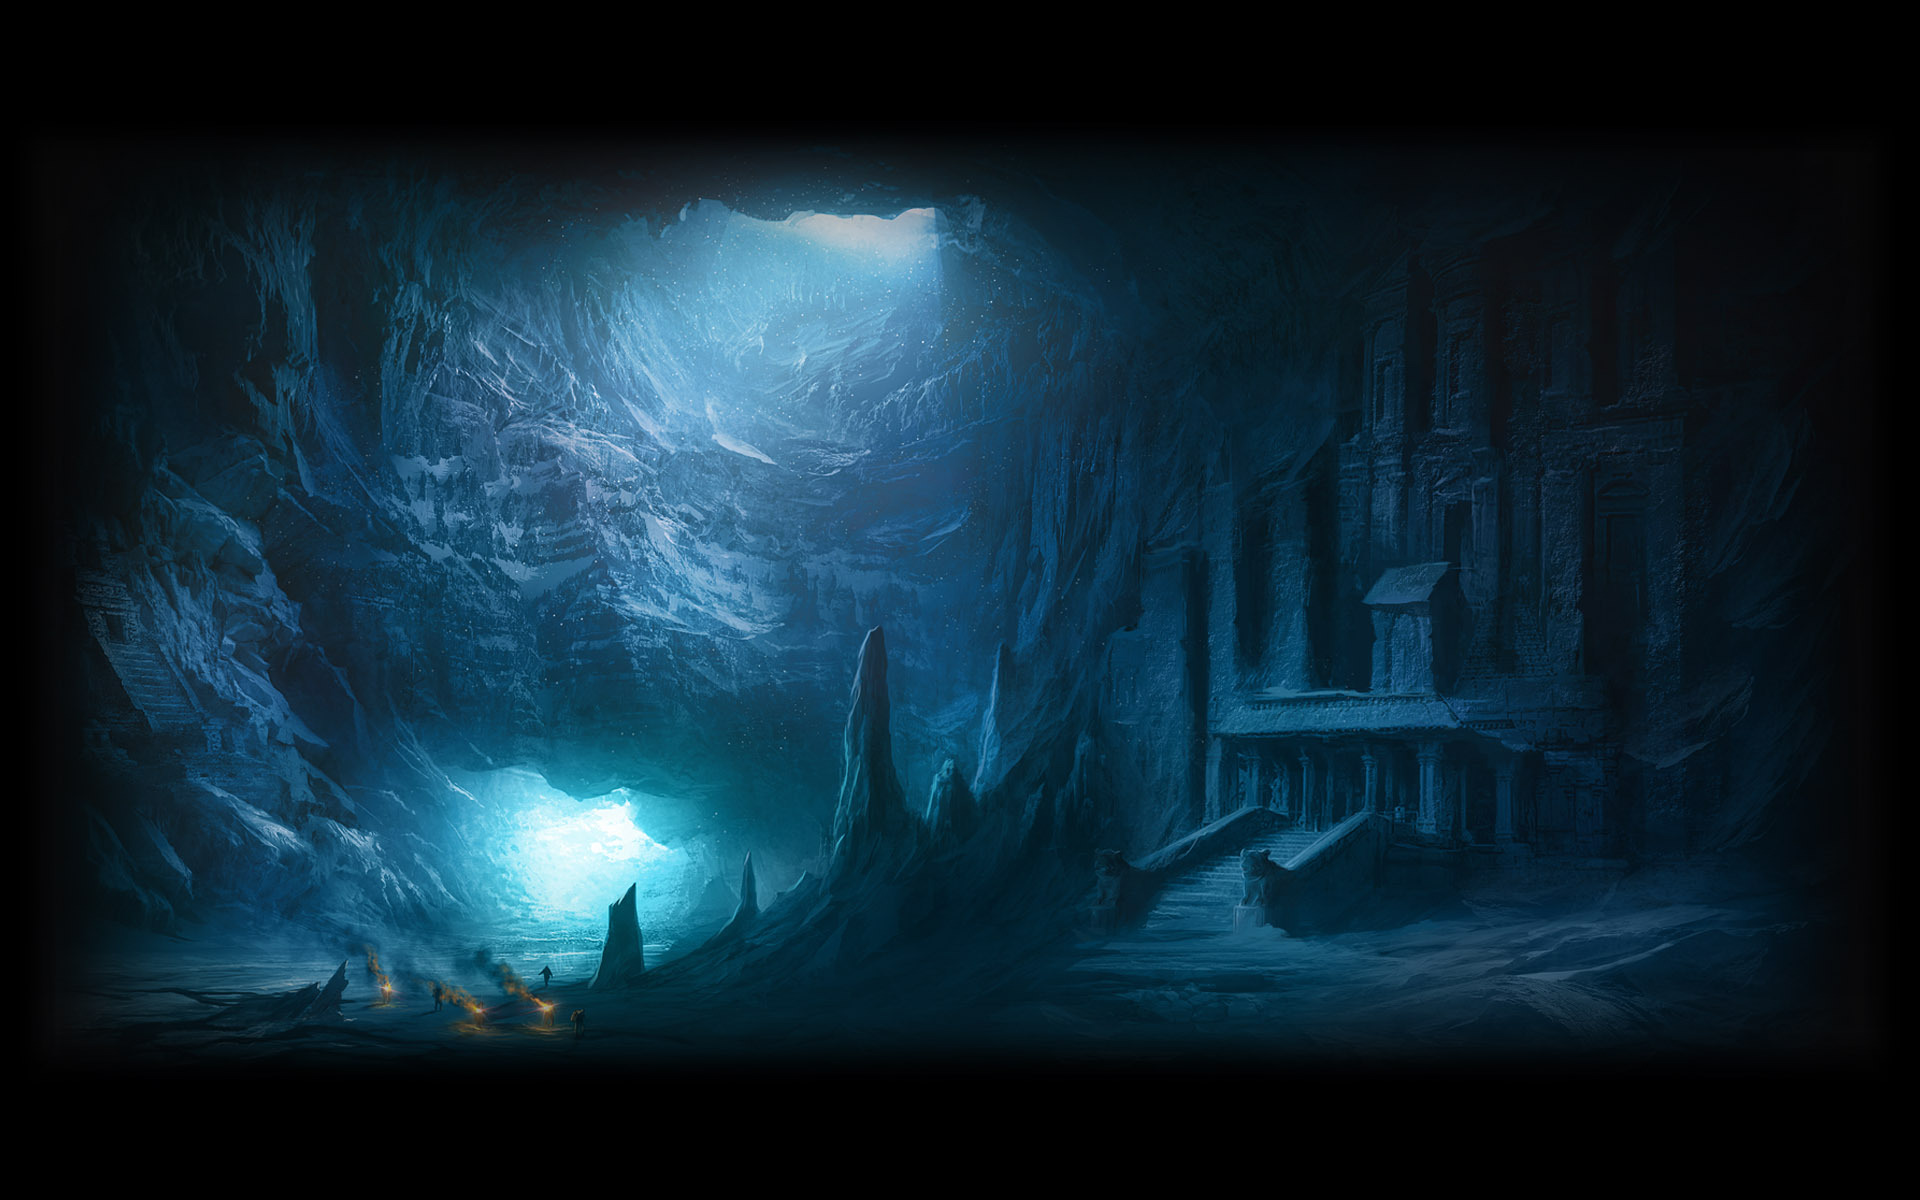
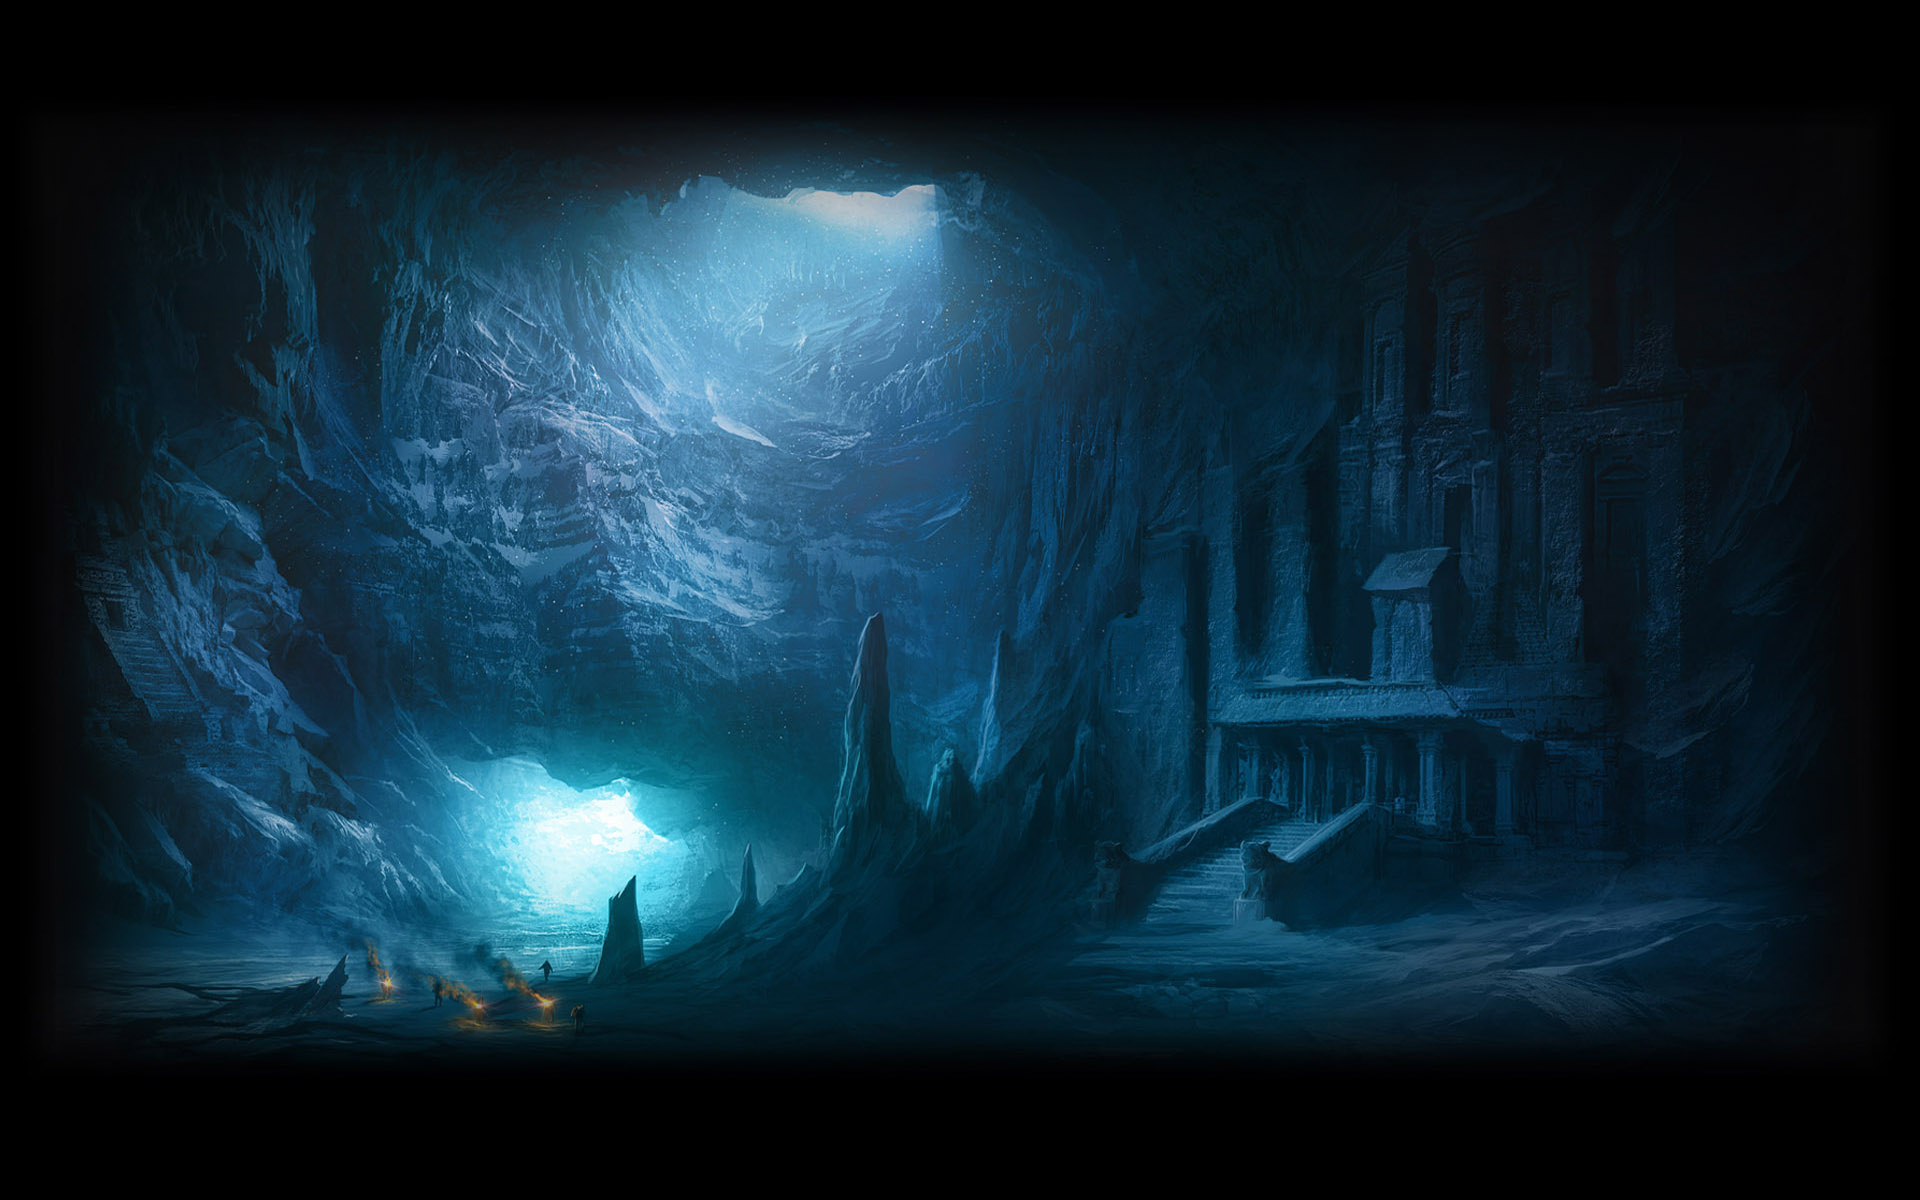
Update : GameFrame Top add

diff --git a/lucifer/game/templates/game/gamestart.html b/lucifer/game/templates/game/gamestart.html
@@ -8,7 +8,13 @@
     <style>
     body{
         background: url("{% static "images/GameBG7.jpg" %}");
-        background-size: 1950px 1050px;
+        background-size: 1920px 1000px;
+        padding-top: 75px;
+        
+    }
+    canvas {
+        border-image:url("{% static "images/Frame_Top.png" %}") 26 0 round stretch;
+        border-top:26px solid; 
         
     }
     </style>
@@ -76,14 +82,13 @@
 <body>
     <!--<input class="higherfunction" name="" value="button" type="button">-->
 
-  <section id='scene' style="width:1280px; height:800px; margin: auto; margin-top: 30px;">
+  <section id='scene' style="width:1280px; height:800px; margin: auto; ">
     <!-- 로딩 화면 구성 -->
     <!--
     <div id="myProgress">
       <div id="myBar"></div>
     </div>
     -->
-    <p>Lucifer</p>
     <ul id="character">
     </ul>
 
